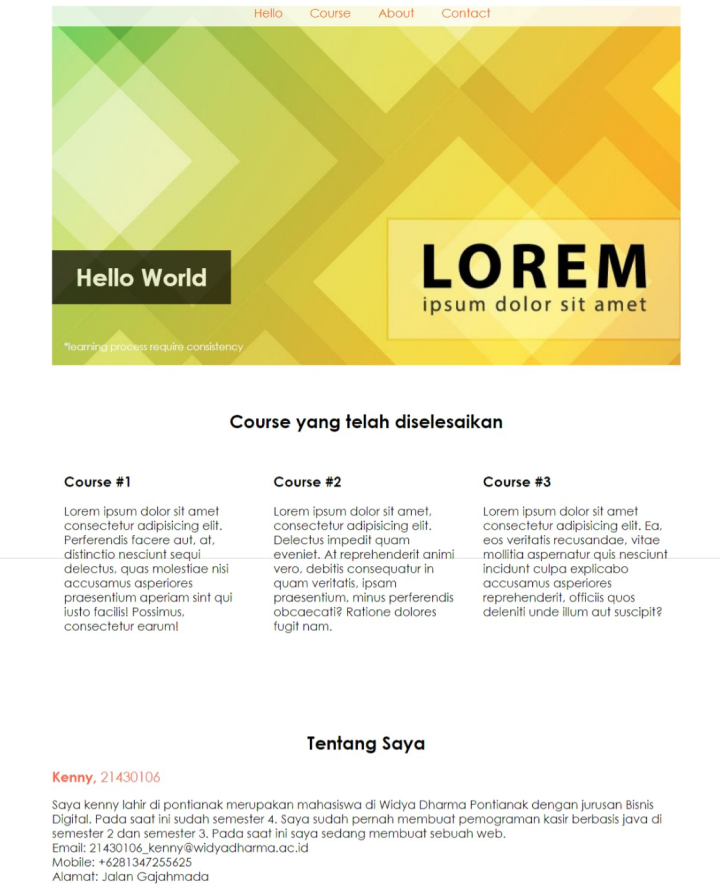
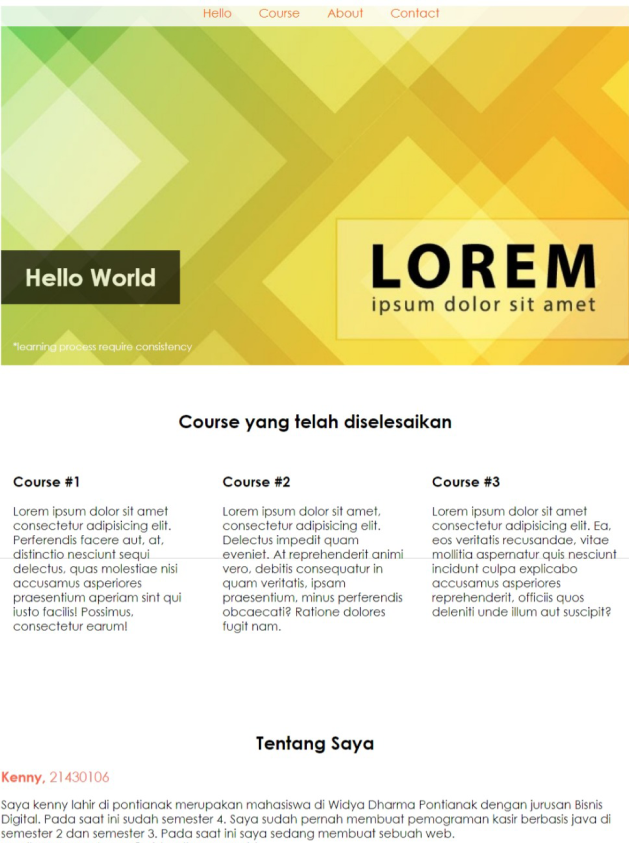
insert index.html

diff --git a/index.html b/index.html
@@ -110,7 +110,7 @@
 	<section class="sec6">
 		<div class="project2-cont">
 			<div class="project2-img">
-				<img src="pictures/gsites2.jpeg" width="625px" height="840px" style="border-radius: 10px;">
+				<img src="pictures/gsites.jpeg" width="625px" height="840px" style="border-radius: 10px;">
 			</div>
 			<div class="project2-text">
 			<h1>Project 2</h1>
@@ -135,7 +135,7 @@
 	<section class="sec8">
 		<div class="project4-cont">
 			<div class="project4-img">
-				<img src="pictures/html2.png" width="625px" height="840px" style="border-radius: 10px;">
+				<img src="pictures/html.png" width="625px" height="840px" style="border-radius: 10px;">
 			</div>
 			<div class="project4-text">
 			<h1>Project 4</h1>

diff --git a/style.css b/style.css
@@ -118,7 +118,7 @@ font-size: 100px;
 }
 
 .profile-image{
-padding-top: 169px;
+padding-top: 80px;
 padding-left: 42px;
 }
 
